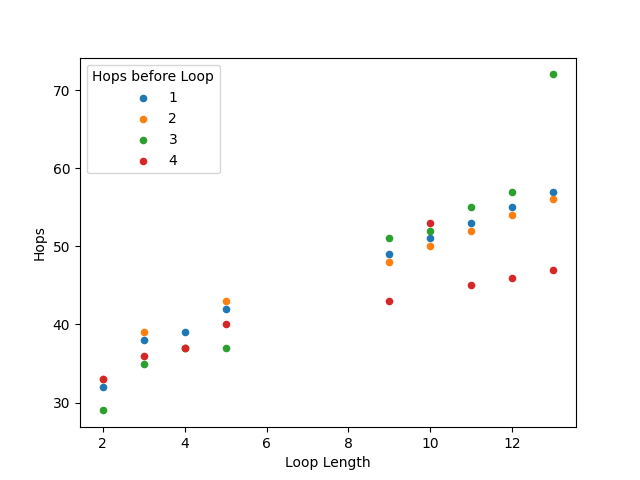
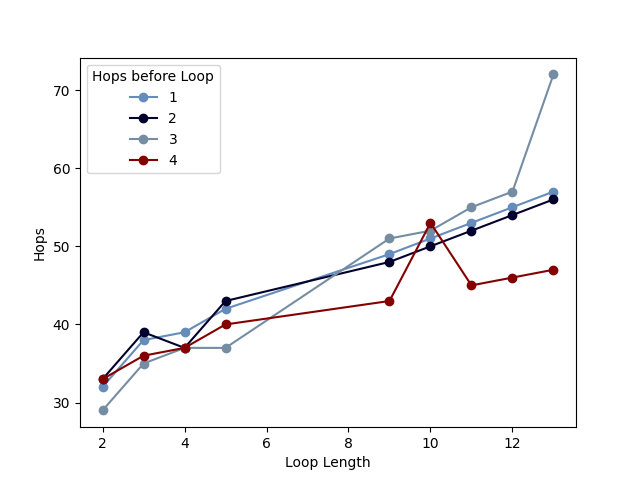
styled graphs

diff --git a/rerouting_simulator/sim_plotter.py b/rerouting_simulator/sim_plotter.py
@@ -26,16 +26,19 @@ for frame in dfs:
     for before in frame['B'].unique(): 
         dfsIn.append(grouped.get_group(before))
     counter = 0 
-    markers = ['tab:blue','tab:orange', 'tab:green', 'tab:red', 'tab:purple', 'tab:brown', 'tab:pink', 'tab:cyan',  'tab:olive']
+    markers = ['#658cbb','#03012d', '#758da3', '#840000']
     before = 1
     for frameB in dfsIn:
         if (counter == 0): 
-            ax = frameB.plot.scatter(x = 'LoopVal', y = 'Hops', color = markers[counter], label=before)
+            ax = frameB.plot(x = 'LoopVal', y = 'Hops', color = markers[counter], label=before, linestyle="-", marker='o')
+       
         else: 
-            frameB.plot.scatter(x =  'LoopVal', y = 'Hops', color = markers[counter], ax = ax, label=before)
+            frameB.plot(x =  'LoopVal', y = 'Hops', color = markers[counter], ax = ax, label=before, linestyle="-", marker='o')
+           
         counter += 1 
         before +=1
     ax.legend(title="Hops before Loop")
+
     ax.set_xlabel("Loop Length")
     ax.set_ylabel("Hops")
     ax.get_figure().savefig("_".join(args.path.split("_")[0:4]) +"_Plots/" + str(bCount) + "_" +  args.path[: len(args.path) - 3] + "png") 

diff --git a/rerouting_simulator/sim.py b/rerouting_simulator/sim.py
@@ -18,15 +18,13 @@ class Node:
 
     #unroller method based on https://github.com/kucejan/unroller/blob/master/unroller.p4app/unroller.p4 and conversations with Jan Kucera
     def unroller_alg(self, packet, network): 
-        #print("At Node " + str(self.swid))
         packet.hop_count += 1
         packet.ttl -= 1
         reset = False
         if(self.swid == packet.dst):
             network.done = True 
-            #print("Destination Reached")
             return True
-        #print("Packet swid " + str(packet.swid))
+       
         if self.swid == packet.swid: 
             network.loop = True
 
@@ -37,7 +35,6 @@ class Node:
             reset = True 
         
         if network.loop: 
-            #print("loop detected")
             return False
         
         if reset or packet.swid > self.swid: 
